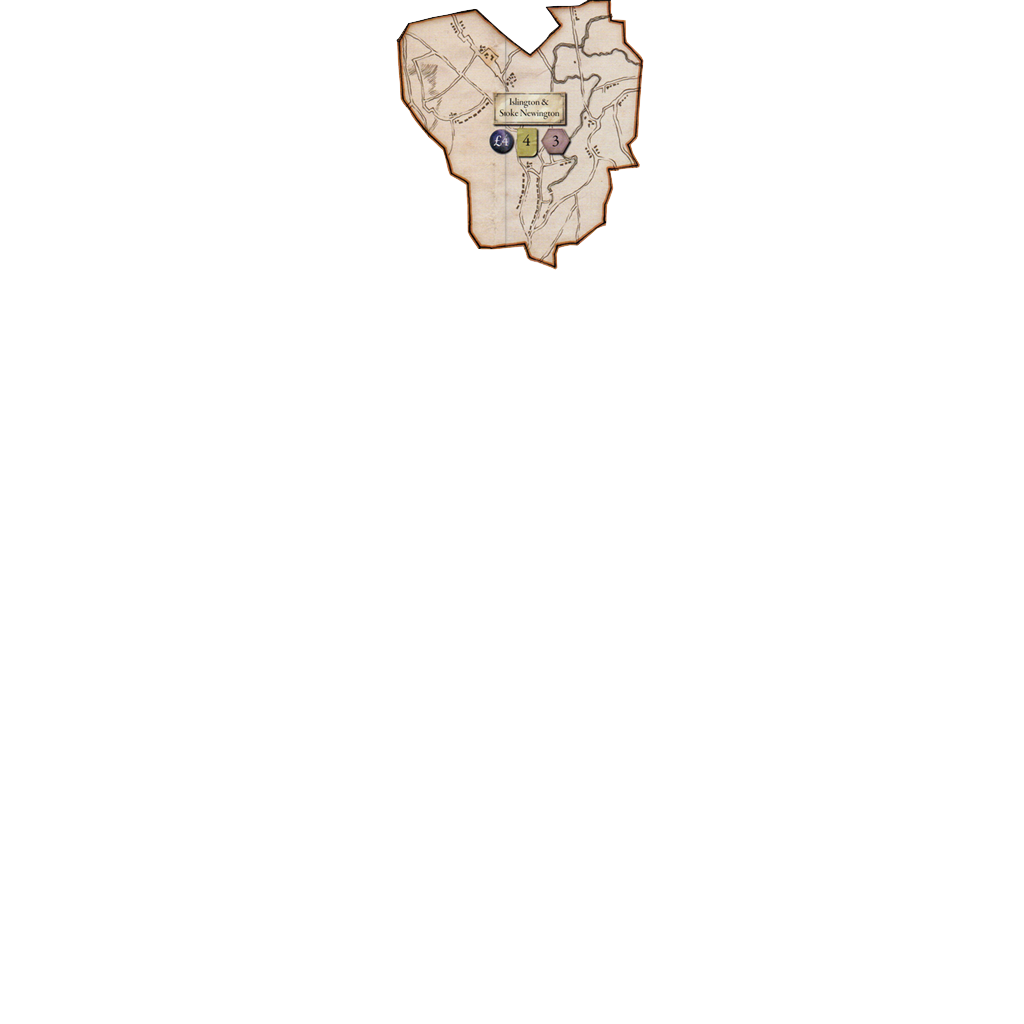
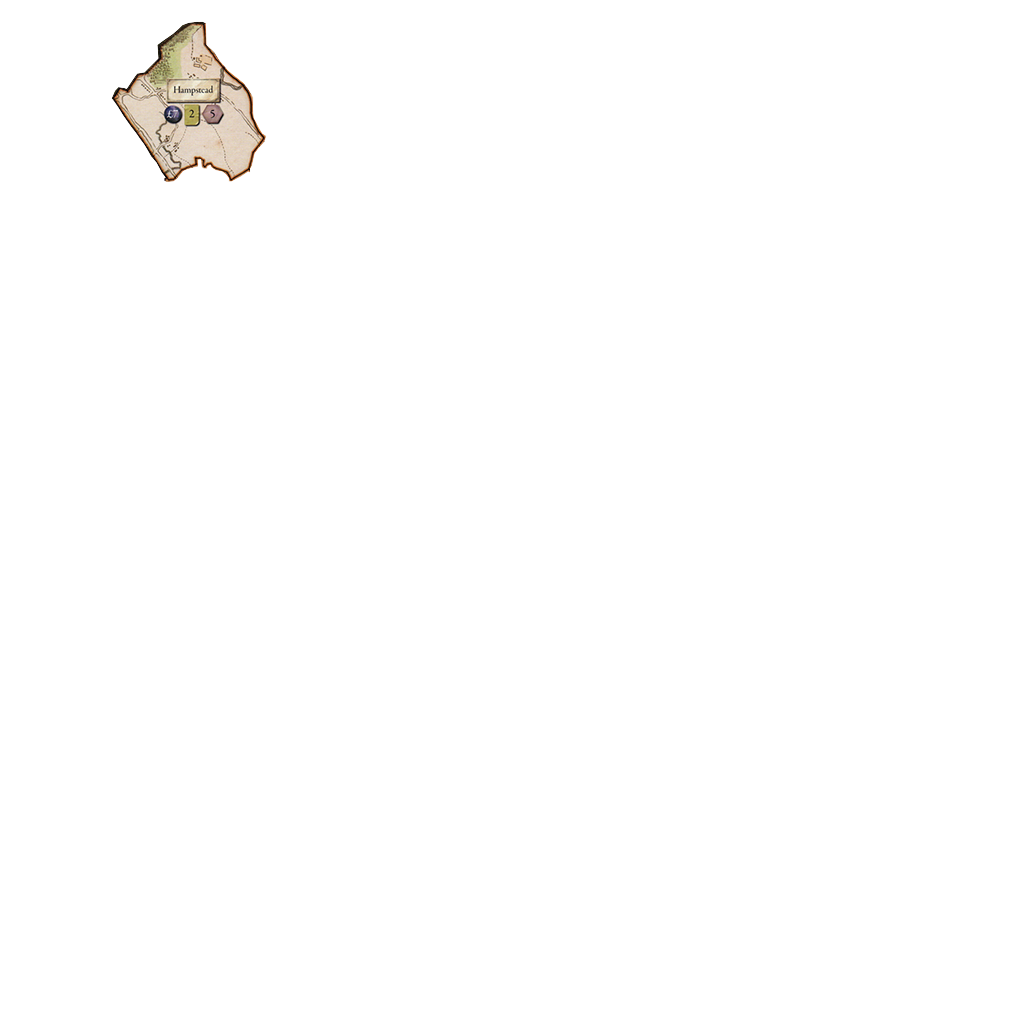
Ajout images quartiers découpés + création classe MapActor

Changed region(s): [[0.375, 0.0, 0.625, 0.2812], [0.0938, 0.0, 0.2812, 0.1875]]

diff --git a/London/src/fr/m1miage/london/ui/screens/QuartiersScreen.java b/London/src/fr/m1miage/london/ui/screens/QuartiersScreen.java
@@ -22,6 +22,7 @@ import fr.m1miage.london.ui.Prefs;
 import fr.m1miage.london.ui.graphics.Art;
 import fr.m1miage.london.ui.graphics.Buttons;
 import fr.m1miage.london.ui.graphics.Fonts;
+import fr.m1miage.london.ui.graphics.MapActor;
 import fr.m1miage.london.ui.graphics.Score;
 
 public class QuartiersScreen extends Screen{
@@ -130,12 +131,20 @@ public class QuartiersScreen extends Screen{
 			}else{
 				btn= new TextButton(quartier.getNom(),Buttons.styleInGameMenuDisabled); 
 			}
+			final MapActor actor = new MapActor(600, 100);
+			stage.addActor(actor);
 			btn.addListener(new InputListener(){
 				@Override
 				public boolean mouseMoved(InputEvent event, float x, float y) {
 					System.out.println( quartier.getNom());
 					
 					nbQuartierHovered = j;
+					
+					if(nbQuartierHovered < 21){
+						actor.setTexture(Art.imagesQuartiers.get(nbQuartierHovered));
+						
+					}
+					
 					return super.mouseMoved(event, x, y);
 				}
 
@@ -176,7 +185,6 @@ public class QuartiersScreen extends Screen{
 		draw(Art.bgPartie, 0, 0);
 
 		Fonts.FONT_TITLE.draw(spriteBatch, "QUARTIERS", 500, 20);
-		draw(Art.imagesQuartiers.get(0), 500, 100);
 
 		if(nbQuartierSelected!=0){
 
@@ -217,9 +225,6 @@ public class QuartiersScreen extends Screen{
 			}
 
 			Fonts.FONT_BLACK.draw(spriteBatch, messageInvestir , 1100, 250);
-		}
-		if(nbQuartierHovered < 6){
-			draw(Art.imagesQuartiers.get(nbQuartierHovered), 500, 100);
 		}
 		
 		spriteBatch.end();

diff --git a/London/src/fr/m1miage/london/ui/graphics/MapActor.java b/London/src/fr/m1miage/london/ui/graphics/MapActor.java
@@ -1,0 +1,19 @@
+package fr.m1miage.london.ui.graphics;
+
+import com.badlogic.gdx.graphics.g2d.TextureRegion;
+import com.badlogic.gdx.scenes.scene2d.Actor;
+
+public class MapActor extends Actor{
+	TextureRegion t;
+	float x;
+	float y;
+	
+	public MapActor(float x, float y){
+		this.x = x;
+		this.y = y;
+	}
+	
+	public void setTexture(TextureRegion t){
+		this.t=t;
+	}
+}

diff --git a/London/src/fr/m1miage/london/ui/graphics/Art.java b/London/src/fr/m1miage/london/ui/graphics/Art.java
@@ -99,7 +99,7 @@ public class Art {
 	}
 	
 	private static void chargerImagesQuartiers(){
-		for(int i = 0; i<=5; i++){
+		for(int i = 0; i<=20; i++){
 			imagesQuartiers.put(i,load("ressources/Images/Quartiers/q"+i+".png", 1024, 1024));
 		}
 	}
